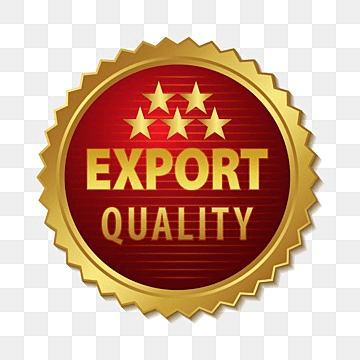
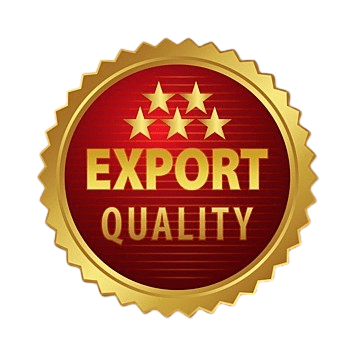
new

diff --git a/.history/src/components/modules/website/HeroSection_20251225013630.tsx b/.history/src/components/modules/website/HeroSection_20251225013630.tsx
@@ -1,0 +1,166 @@
+"use client";
+
+import Link from "next/link";
+import Image from "next/image";
+import { motion } from "framer-motion";
+import { ArrowRight, Globe, ShieldCheck } from "lucide-react";
+import PoshButton from "@/components/ui/PoshButton";
+import SectionWrapper from "@/components/ui/SectionWrapper";
+
+const HeroSection = () => {
+  return (
+    <section className="relative min-h-[90vh] flex items-center justify-center overflow-hidden bg-brand-dark">
+      {/* --- 1. BACKGROUND IMAGE --- */}
+      <div className="absolute inset-0 z-0">
+        <Image
+          src="/hero-bg.jpg" // Ensure this exists in public folder
+          alt="GSL Factory"
+          fill
+          className="object-cover opacity-40"
+          priority
+        />
+        {/* Gradient Overlay */}
+        <div className="absolute inset-0 bg-linear-to-r from-black/90 via-black/60 to-transparent" />
+      </div>
+
+      <SectionWrapper className="relative z-10 w-full pt-32 pb-20">
+        <div className="grid grid-cols-1 lg:grid-cols-2 gap-12 items-center">
+          {/* --- LEFT: TEXT CONTENT --- */}
+          <motion.div
+            initial={{ opacity: 0, x: -50 }}
+            animate={{ opacity: 1, x: 0 }}
+            transition={{ duration: 0.8 }}
+            className="space-y-6 text-white text-center lg:text-left">
+            <div className="inline-flex items-center gap-2 px-4 py-2 rounded-full bg-brand-yellow/10 border border-brand-yellow/30 backdrop-blur-md">
+              <span className="relative flex h-3 w-3">
+                <span className="animate-ping absolute inline-flex h-full w-full rounded-full bg-brand-yellow opacity-75"></span>
+                <span className="relative inline-flex rounded-full h-3 w-3 bg-brand-yellow"></span>
+              </span>
+              <span className="text-brand-yellow text-sm font-bold tracking-wider uppercase">
+                #1 Toy Exporter in Bangladesh
+              </span>
+            </div>
+
+            {/* HEADLINE */}
+            <h1 className="text-5xl md:text-7xl font-bold leading-tight">
+              <span className="block text-white">GSL EXPORT</span>
+              <span className="text-transparent bg-clip-text bg-brand-yellow">
+                LIMITED
+              </span>
+            </h1>
+
+            <p className="text-lg md:text-xl text-gray-300 max-w-xl mx-auto lg:mx-0 leading-relaxed">
+              Bringing joy to the world through premium manufacturing. We are a
+              government-certified leader in soft toys, plastic toys, and baby
+              accessories, exporting to 6+ countries.
+            </p>
+
+            <div className="flex flex-col sm:flex-row gap-4 pt-4 justify-center lg:justify-start">
+              <Link href="/products">
+                <PoshButton className="h-14 px-8 text-base bg-brand-red text-white hover:bg-white hover:text-brand-red shadow-xl shadow-red-900/20">
+                  Explore Collections
+                </PoshButton>
+              </Link>
+              <Link href="/contact">
+                <PoshButton
+                  variant="outline"
+                  className="h-14 px-8 text-base border-brand-yellow text-brand-yellow hover:bg-brand-yellow hover:text-brand-dark">
+                  Request a Quote <ArrowRight className="ml-2 h-5 w-5" />
+                </PoshButton>
+              </Link>
+            </div>
+
+            {/* Trust Badges */}
+            <div className="pt-8 flex items-center justify-center lg:justify-start gap-8 border-t border-white/10 mt-8">
+              <div className="flex items-center gap-3">
+                <Globe className="text-brand-yellow h-8 w-8" />
+                <div>
+                  <p className="font-bold text-lg">6+</p>
+                  <p className="text-xs text-gray-400 uppercase">
+                    Countries Served
+                  </p>
+                </div>
+              </div>
+              <div className="flex items-center gap-3">
+                <ShieldCheck className="text-brand-yellow h-8 w-8" />
+                <div>
+                  <p className="font-bold text-lg">BSCI</p>
+                  <p className="text-xs text-gray-400 uppercase">
+                    Certified Quality
+                  </p>
+                </div>
+              </div>
+            </div>
+          </motion.div>
+
+          {/* --- RIGHT: VISUAL (Adjusted Size for Mobile) --- */}
+          <motion.div
+            initial={{ opacity: 0, scale: 0.9 }}
+            animate={{ opacity: 1, scale: 1 }}
+            transition={{ duration: 0.8, delay: 0.2 }}
+            className="flex justify-center relative mt-10 lg:mt-0">
+            {/* UPDATED CONTAINER SIZE */}
+            <div className="relative w-60 h-60 md:w-112.5 md:h-112.5">
+              {/* 1. THE RED BACK LAYER */}
+              <motion.div
+                animate={{
+                  y: [0, -20, 0],
+                  rotate: [6, 10, 6],
+                }}
+                transition={{
+                  duration: 8,
+                  repeat: Infinity,
+                  ease: "easeInOut",
+                }}
+                className="absolute inset-0 bg-linear-to-br from-brand-red to-red-900 rounded-3xl shadow-2xl z-0 transform translate-x-4 translate-y-4 md:translate-x-8 md:translate-y-8"
+              />
+
+              {/* 2. THE GLASS FRONT LAYER */}
+              <motion.div
+                animate={{ y: [0, -30, 0] }}
+                transition={{
+                  duration: 6,
+                  repeat: Infinity,
+                  ease: "easeInOut",
+                }}
+                className="absolute inset-0 z-10 bg-white/10 backdrop-blur-md border border-white/20 p-6 md:p-8 rounded-3xl shadow-2xl flex flex-col items-center justify-center">
+                <div className="relative w-full h-full">
+                  <Image
+                    src="/hero.png"
+                    alt="GSL Export Limited"
+                    fill
+                    className="object-contain drop-shadow-2xl"
+                    priority
+                  />
+                </div>
+              </motion.div>
+
+              {/* 3. REPLACED FLOATING BADGE (Now using /export.png) */}
+              <motion.div
+                animate={{ y: [0, 15, 0] }}
+                transition={{
+                  duration: 5,
+                  repeat: Infinity,
+                  ease: "easeInOut",
+                  delay: 1,
+                }}
+                /* Removed bg-brand-yellow and padding to let the image shine */
+                className="absolute -top-6 -right-6 md:-top-10 md:-right-10 z-20 w-24 h-24 md:w-40 md:h-40">
+                <div className="relative w-full h-full">
+                  <Image
+                    src="/export.png"
+                    alt="Export Quality Seal"
+                    fill
+                    className="object-contain drop-shadow-xl"
+                  />
+                </div>
+              </motion.div>
+            </div>
+          </motion.div>
+        </div>
+      </SectionWrapper>
+    </section>
+  );
+};
+
+export default HeroSection;
